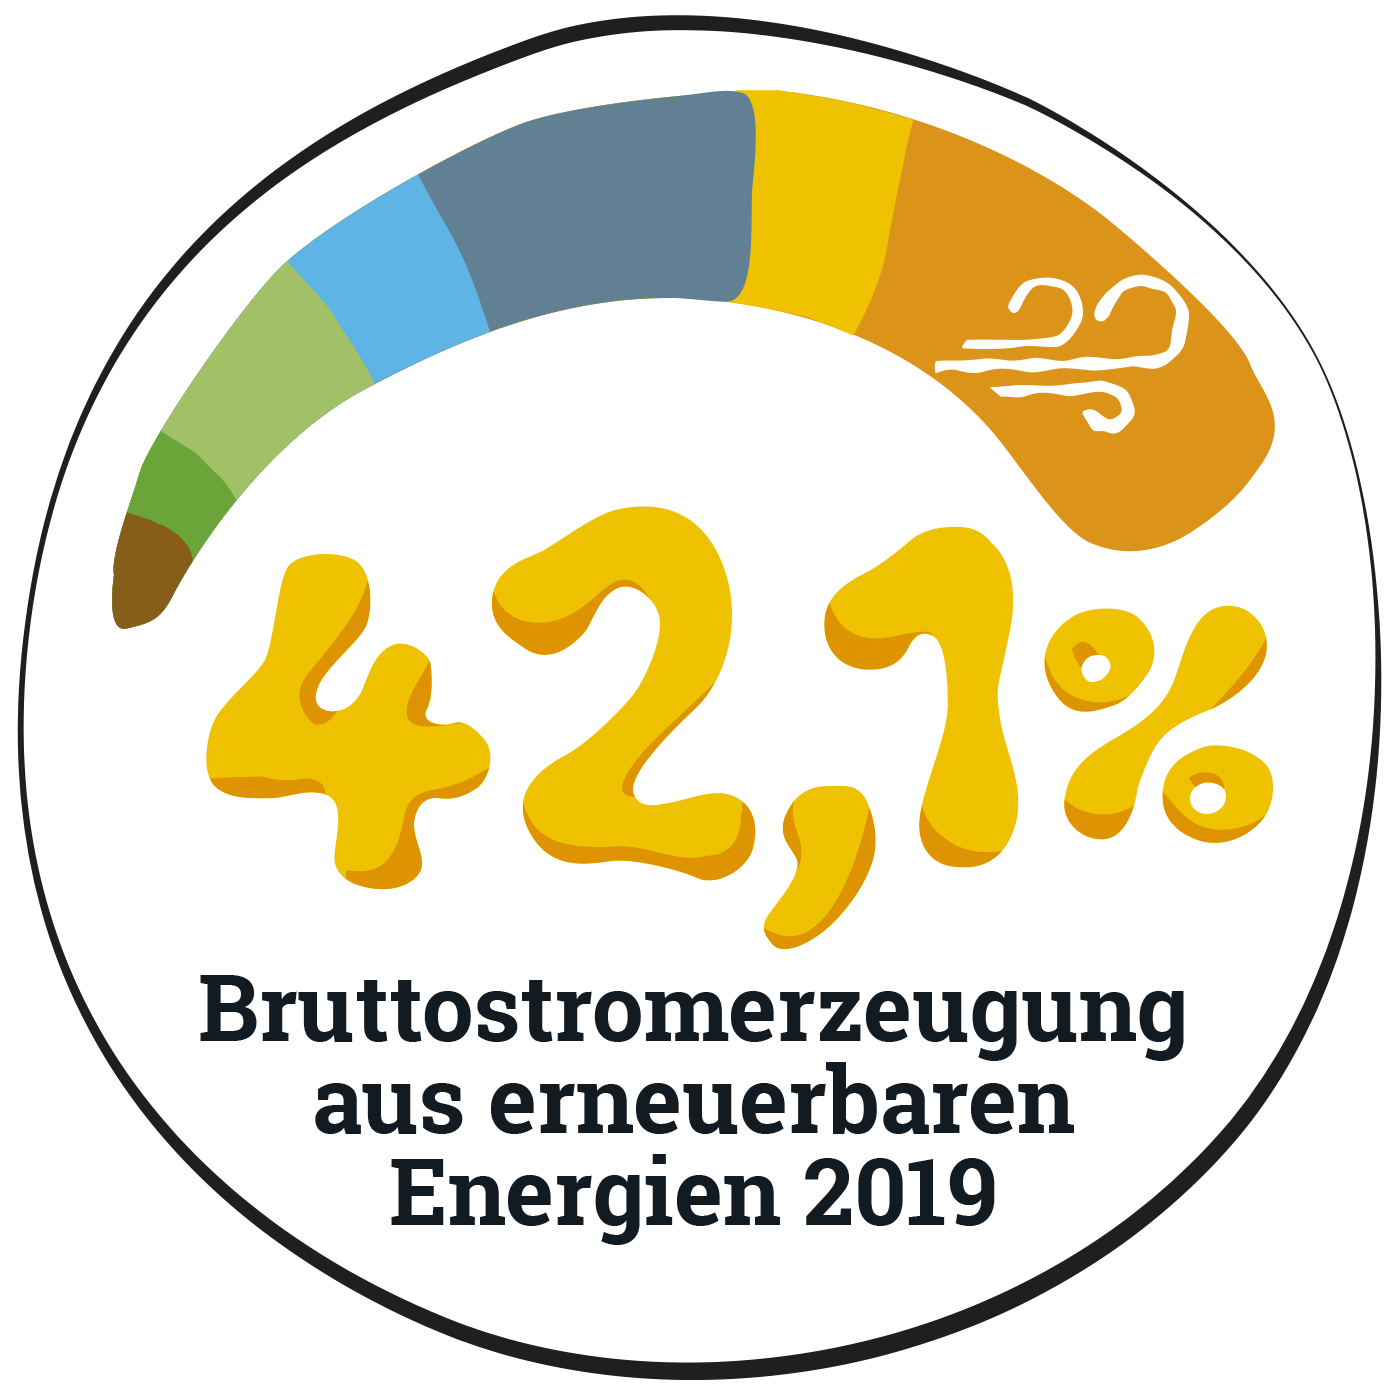
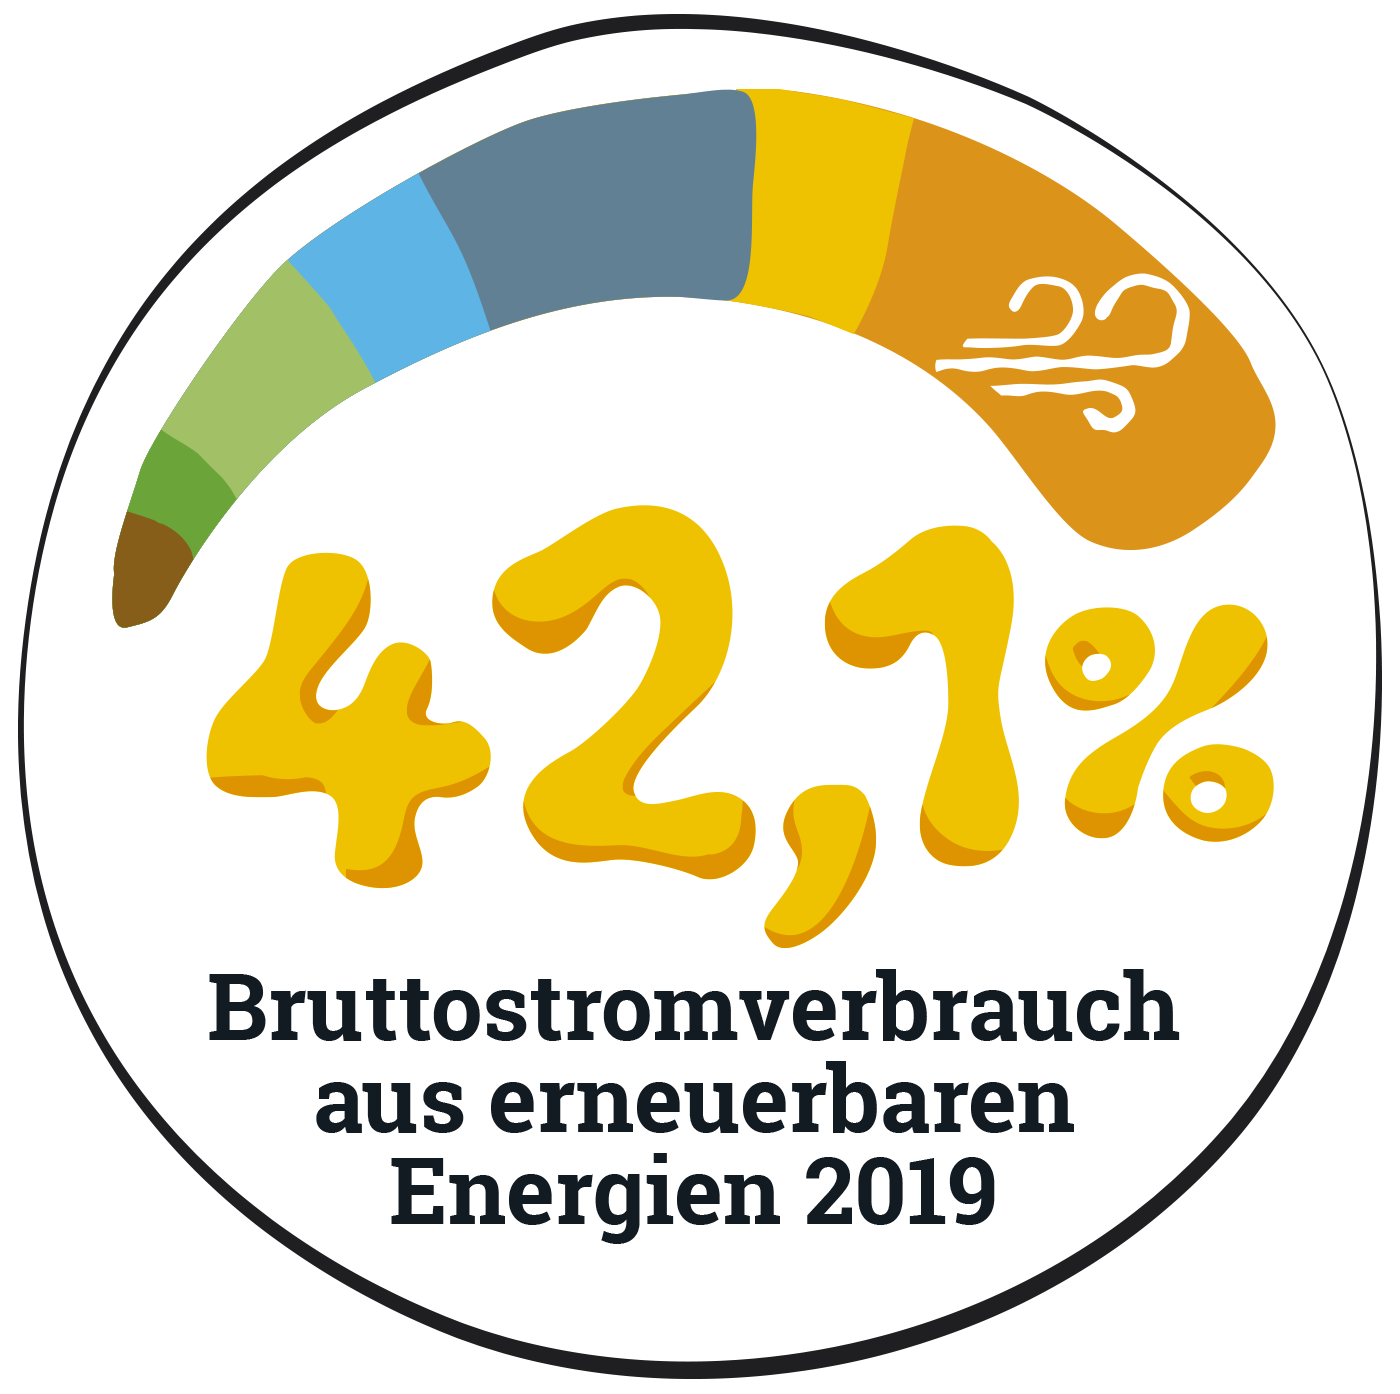
bruttostromverbrauch tacho name fix

diff --git a/styles/default.scss b/styles/default.scss
@@ -248,7 +248,7 @@ h6 { font-size: 16px;}
 
 .bundesländer {
     &__map {
-        width: 80%;
+        width: 90%;
         display: block;
         padding: 40px 0;
         margin: 0 auto;
@@ -313,6 +313,12 @@ h6 { font-size: 16px;}
         &__text {
             width: 80%;
             margin: auto;
+        }
+    }
+
+    .bundesländer {
+        &__map {
+            width: 70%;
         }
     }
 }

diff --git a/styles/default.css b/styles/default.css
@@ -278,7 +278,7 @@ h6 {
 }
 
 .bundesländer__map {
-  width: 80%;
+  width: 90%;
   display: block;
   padding: 40px 0;
   margin: 0 auto;
@@ -342,6 +342,9 @@ h6 {
   .intro__text {
     width: 80%;
     margin: auto;
+  }
+  .bundesländer__map {
+    width: 70%;
   }
 }
 /*# sourceMappingURL=default.css.map */
